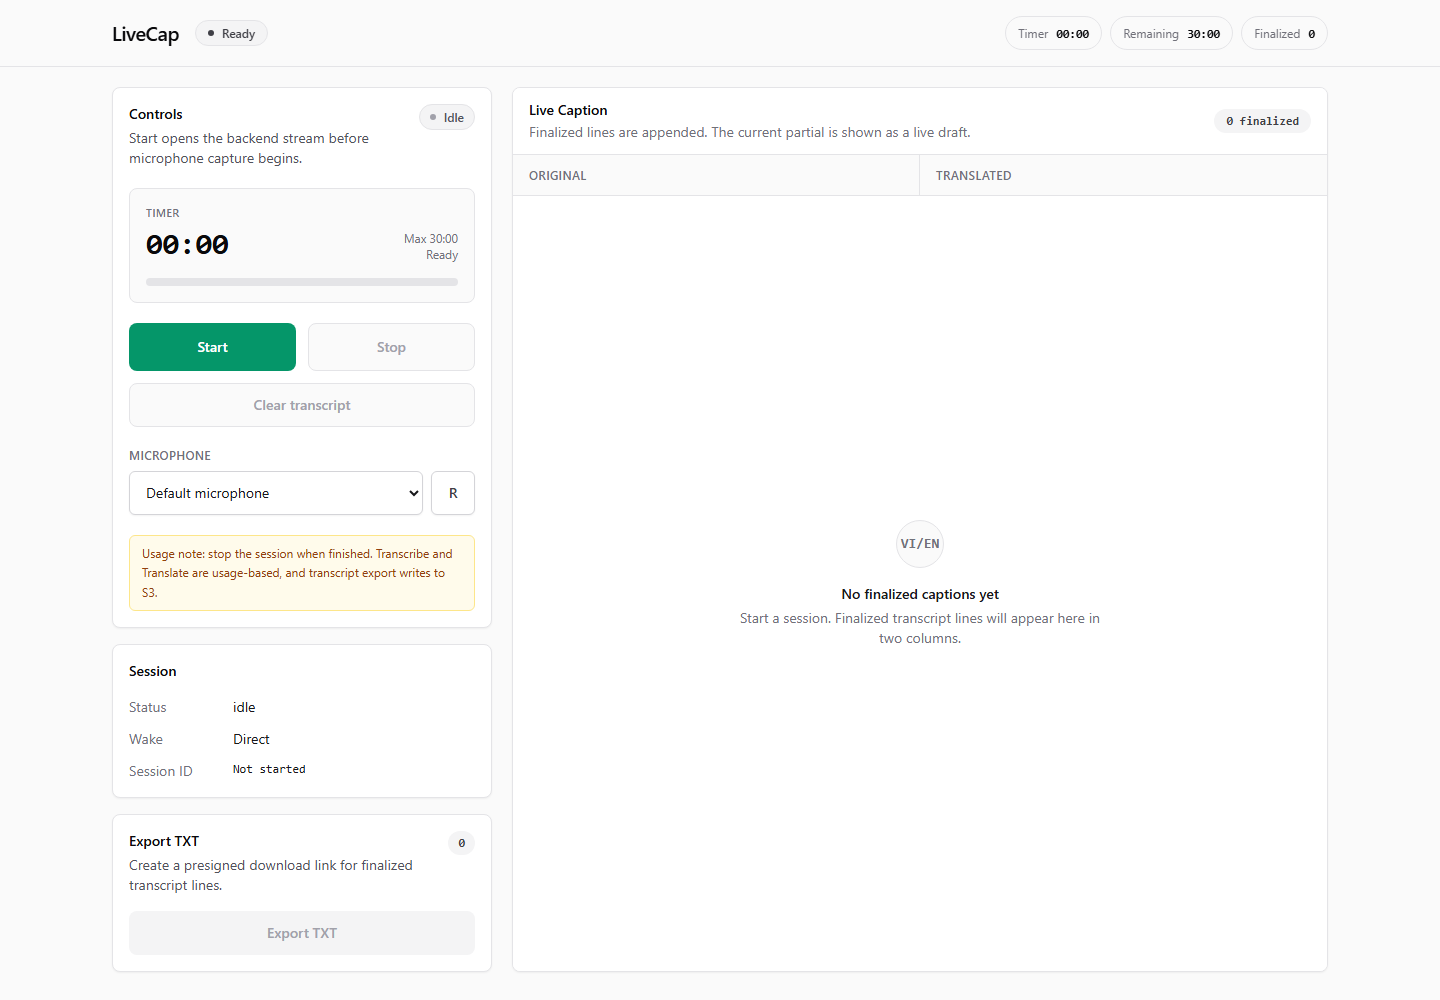
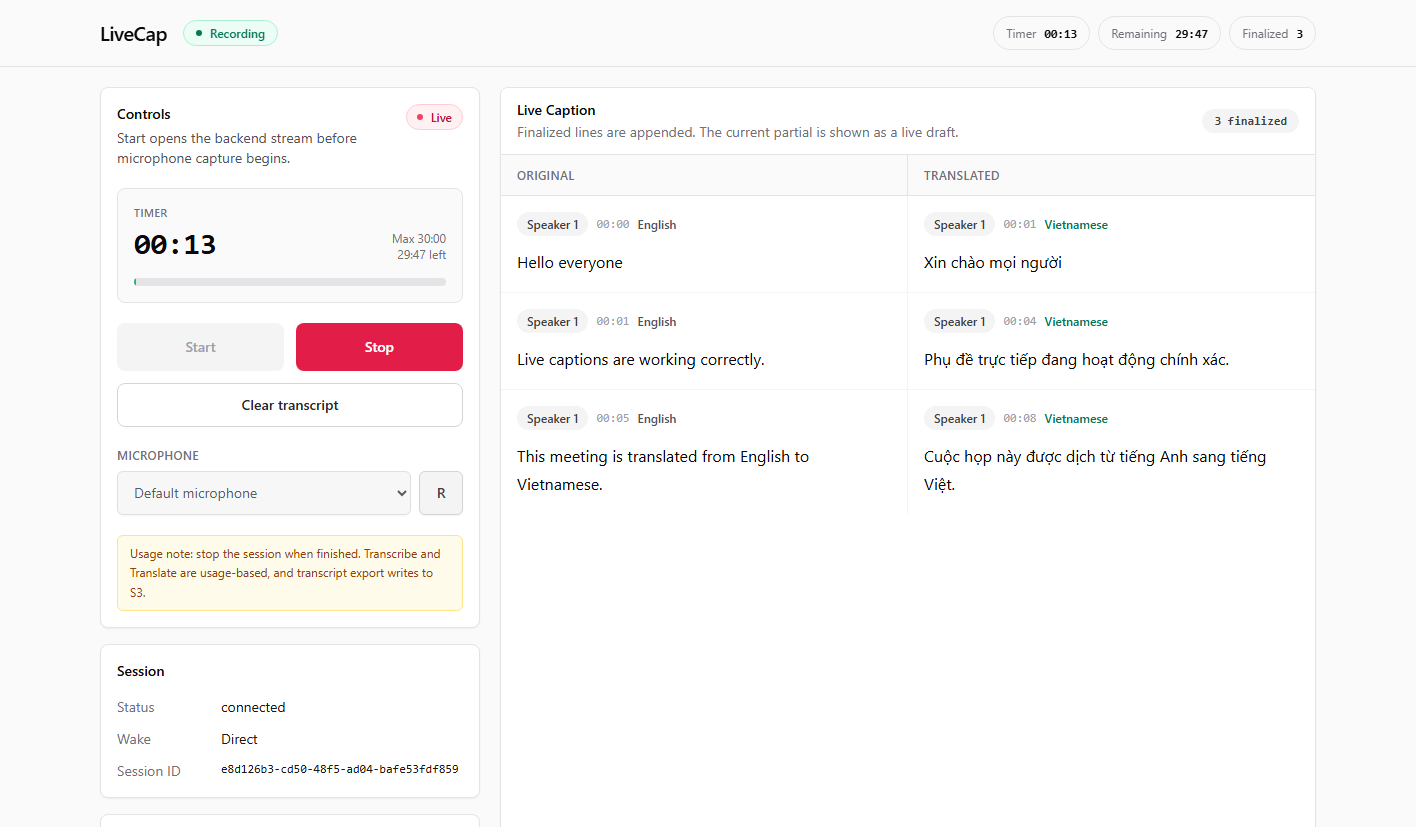
Add production UI caption evidence

diff --git a/docs/post-v1.5-requirements-design-flow.md b/docs/post-v1.5-requirements-design-flow.md
@@ -458,6 +458,12 @@ at 14 days, and the public frontend production dependency audit reported zero
 known vulnerabilities. GitHub Dependabot alerts and automated security fixes
 are enabled; there were zero open Dependabot alerts at verification time.
 
+The same production flow was also exercised through the real dashboard UI with
+an isolated Edge session and a fake microphone WAV. The UI reached Recording,
+appended three finalized English/Vietnamese rows, retained bounded session
+state, and stopped cleanly. The resulting evidence image is stored at
+`docs/livecap-dashboard.png`.
+
 Local Terraform state files were moved out of the repository to:
 
 ```text

diff --git a/README.md b/README.md
@@ -31,6 +31,9 @@ gates.
 
 ### Caption Dashboard
 
+Captured from the production UI while streaming a fake microphone WAV through
+the complete WebSocket, Transcribe, and Translate path.
+
 ![LiveCap caption dashboard](docs/livecap-dashboard.png)
 
 ---
